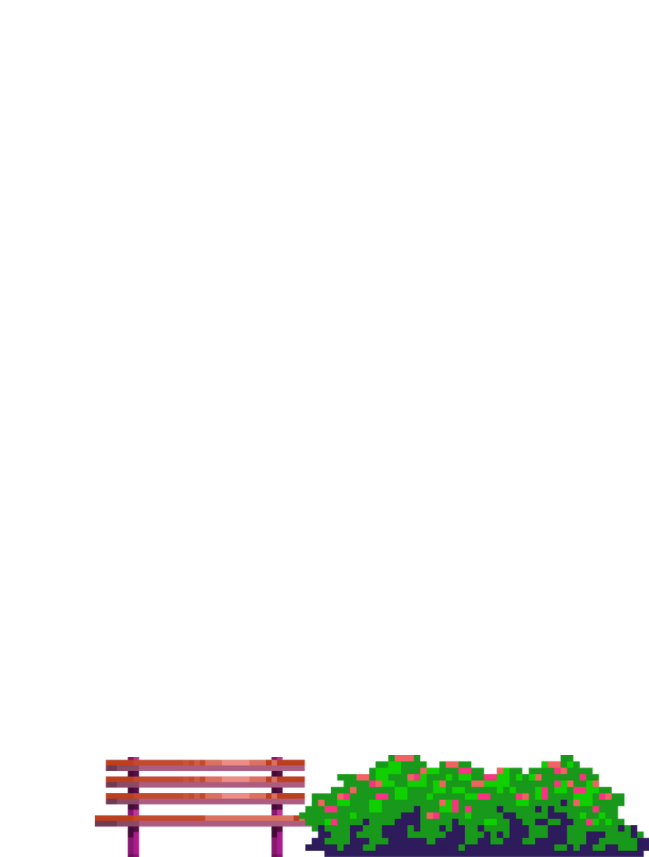
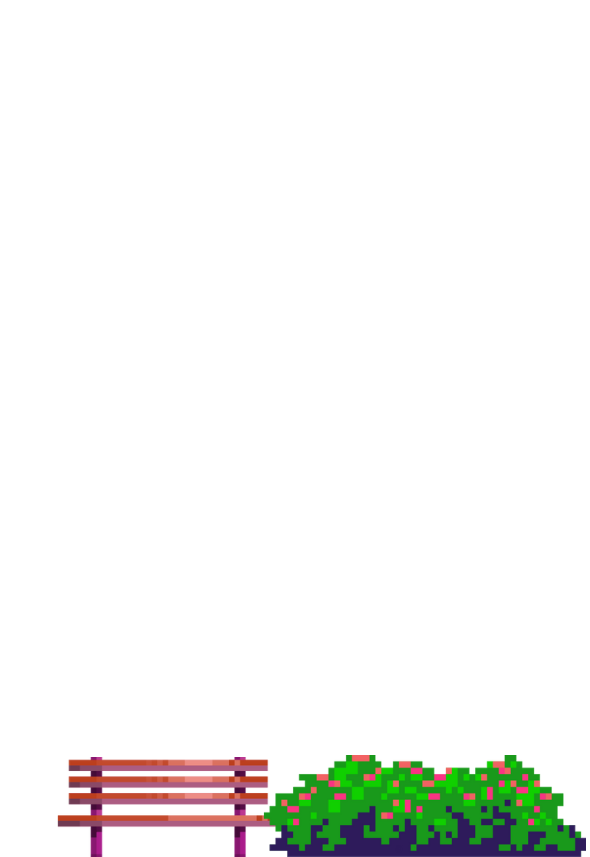
adicioando placa do icmc responsiva 🪧

Changed region(s): [[0.2746, 0.8798, 1.0, 1.0], [0.0915, 0.8798, 0.2136, 1.0]]

diff --git a/packages/app/pages/index.tsx b/packages/app/pages/index.tsx
@@ -30,9 +30,13 @@ function Home() {
     <main className="home  bg-black min-h-screen">
       <div>
         <section className="bg-[url('../assets/27-imgs/bgheadercontinue.png')] bg-repeat h-[857px]">
-          <section className="bg-[url('../assets/27-imgs/leftbgheader.png')] bg-no-repeat h-[857px]">
+          <section>
             <div className="relative">
-              <section className="absolute right-[10px] top-0 h-[857px] w-[650px] bg-[url('../assets/27-imgs/rightbgheader.png')] bg-no-repeat bg-cover"></section>
+              <section className="hidden lg:block absolute left-[0px] top-0 h-[857px] w-[450px] bg-[url('../assets/27-imgs/leftbgheader.png')] bg-no-repeat bg-cover"></section>
+              <section className="hidden lg:block absolute right-[10px] top-0 h-[857px] w-[590px] bg-[url('../assets/27-imgs/rightbgheader.png')] bg-no-repeat bg-cover"></section>
+
+              <section className="lg:hidden absolute left-0 top-0 h-[857px] w-[450px] bg-[url('../assets/27-imgs/placaICMC.png')] bg-no-repeat bg-cover"></section>
+
               <div className="relative h-[857px]">
                 <HomeHeader />
               </div>
